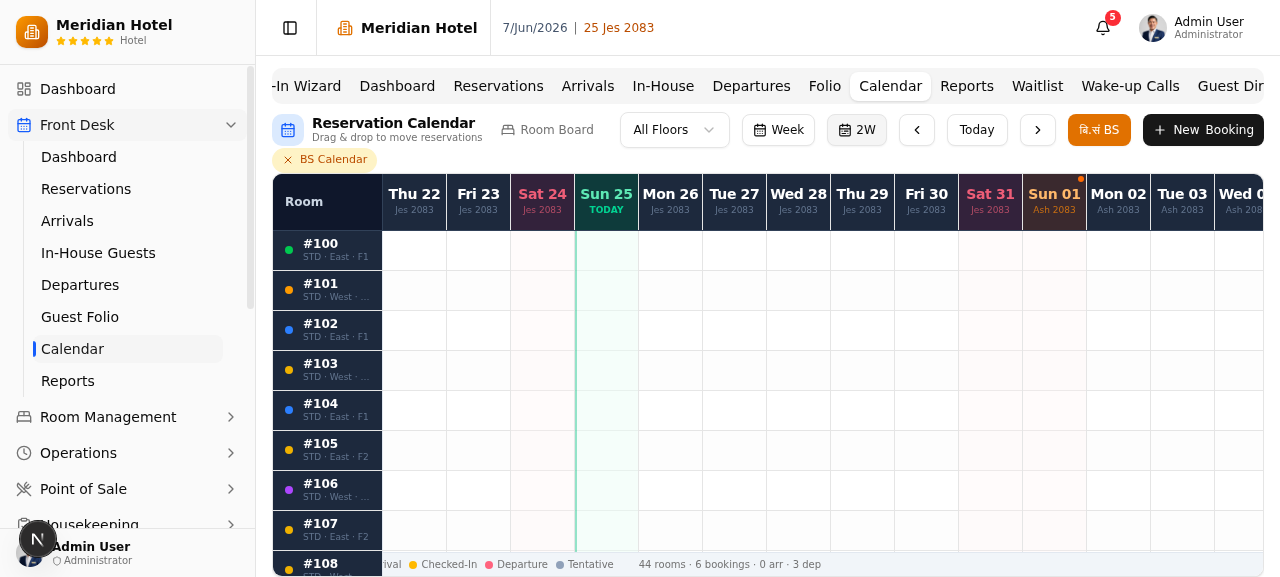
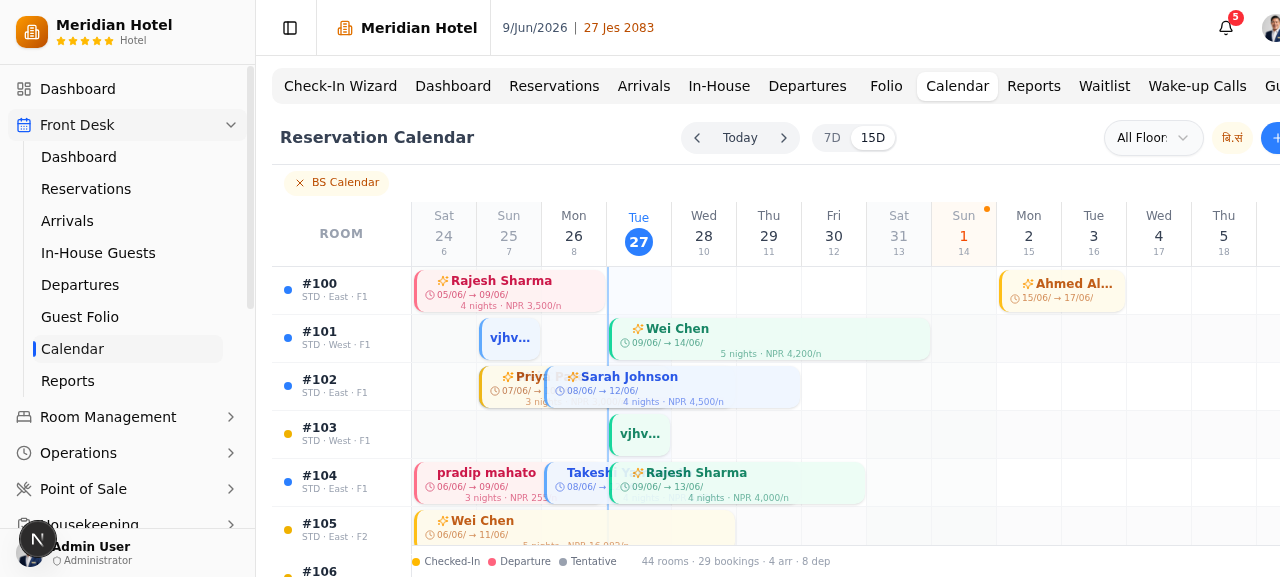
a394a363-4ba0-49c1-b8a2-46d32edbcb9f

diff --git a/src/components/modules/front-desk/CalendarView.tsx b/src/components/modules/front-desk/CalendarView.tsx
@@ -166,7 +166,7 @@ interface NewReservationForm {
 // ─── Constants ──────────────────────────────────────────────────────────
 
 // Default/fallback constants (used when container size is unknown)
-const DEFAULT_NUM_DAYS = 14
+const DEFAULT_NUM_DAYS = 15
 const DEFAULT_DAY_WIDTH = 100
 const ROW_HEIGHT = 48
 const HEADER_HEIGHT = 64
@@ -335,7 +335,7 @@ export function CalendarView() {
 
   // ─── Responsive container sizing ────────────────────────────────────
   const [containerWidth, setContainerWidth] = useState(0)
-  const [viewMode, setViewMode] = useState<'week' | 'twoWeeks'>('twoWeeks')
+  const [viewMode, setViewMode] = useState<'7days' | '15days'>('15days')
   const { preferences } = usePreferencesStore()
   const showBSDates = preferences.nepaliStandards?.dualCalendar === true
   const showHolidayAlerts = preferences.nepaliStandards?.holidayAlerts !== false
@@ -360,14 +360,19 @@ export function CalendarView() {
     return () => observer.disconnect()
   }, [])
 
-  // Re-measure when sidebar expands/collapses (add small delay for CSS transition)
+  // Re-measure when sidebar expands/collapses (add delay for CSS transition)
   useEffect(() => {
-    const timer = setTimeout(recalcWidth, 350)
-    return () => clearTimeout(timer)
+    // Measure at multiple intervals to catch sidebar CSS transition completion
+    const timers = [
+      setTimeout(recalcWidth, 100),
+      setTimeout(recalcWidth, 300),
+      setTimeout(recalcWidth, 500),
+    ]
+    return () => timers.forEach(clearTimeout)
   }, [sidebarState, sidebarOpen, isMobile, recalcWidth])
 
   // Dynamically compute grid dimensions based on container width
-  const numDays = viewMode === 'week' ? 7 : DEFAULT_NUM_DAYS
+  const numDays = viewMode === '7days' ? 7 : DEFAULT_NUM_DAYS
   const roomColWidth = containerWidth > 1024 ? 140 : containerWidth > 640 ? 110 : 90
   const dayWidth = containerWidth > 0
     ? Math.max(64, Math.floor((containerWidth - roomColWidth) / numDays))
@@ -390,7 +395,8 @@ export function CalendarView() {
   const endDate = useMemo(() => addDays(startDate, numDays - 1), [startDate, numDays])
 
   const startDateStr = useMemo(() => dateToKey(startDate), [startDate])
-  const endDateStr = useMemo(() => dateToKey(endDate), [endDate])
+  // Add a 7-day buffer beyond the visible range so extended stays are still fetched
+  const endDateStr = useMemo(() => dateToKey(addDays(endDate, 7)), [endDate])
 
   // ─── Navigation ──────────────────────────────────────────────────────
   const goToPrevWeek = useCallback(() => setStartDate((d) => addDays(d, -7)), [])
@@ -447,16 +453,20 @@ export function CalendarView() {
     },
   })
 
-  // ─── Fetch reservations overlapping the date range ───────────────────
+  // ─── Fetch reservations overlapping the full date range ──────────────
   const { data: reservationsRaw, isLoading: resLoading } = useQuery({
     queryKey: ['reservations', startDateStr, endDateStr],
     queryFn: async () => {
       const params = new URLSearchParams()
-      params.set('date', startDateStr)
+      // Use dateFrom/dateTo to fetch ALL reservations overlapping the visible range
+      // This ensures moved reservations remain visible after drag-drop
+      params.set('dateFrom', startDateStr)
+      params.set('dateTo', endDateStr)
       const res = await fetch(`/api/reservations?${params.toString()}`)
       if (!res.ok) throw new Error('Failed to fetch reservations')
       return res.json()
     },
+    staleTime: 15_000,
   })
 
   // ─── Fetch guests for new reservation dialog ──────────────────────────
@@ -1269,29 +1279,29 @@ export function CalendarView() {
               </button>
             </div>
 
-            {/* Segmented view toggle: 2W | 4W */}
+            {/* Segmented view toggle: 7 Days | 15 Days */}
             <div className="flex items-center bg-gray-100 dark:bg-gray-900 rounded-full p-0.5">
               <button
-                onClick={() => setViewMode('week')}
+                onClick={() => setViewMode('7days')}
                 className={cn(
                   'px-2.5 py-1 rounded-full text-xs font-medium transition-colors',
-                  viewMode === 'week'
+                  viewMode === '7days'
                     ? 'bg-white dark:bg-gray-800 text-gray-900 dark:text-gray-100 shadow-sm'
                     : 'text-gray-500 dark:text-gray-400 hover:text-gray-700 dark:hover:text-gray-200',
                 )}
               >
-                {isSmallScreen ? '1W' : '2W'}
+                7D
               </button>
               <button
-                onClick={() => setViewMode('twoWeeks')}
+                onClick={() => setViewMode('15days')}
                 className={cn(
                   'px-2.5 py-1 rounded-full text-xs font-medium transition-colors',
-                  viewMode === 'twoWeeks'
+                  viewMode === '15days'
                     ? 'bg-white dark:bg-gray-800 text-gray-900 dark:text-gray-100 shadow-sm'
                     : 'text-gray-500 dark:text-gray-400 hover:text-gray-700 dark:hover:text-gray-200',
                 )}
               >
-                {isSmallScreen ? '2W' : '4W'}
+                15D
               </button>
             </div>
           </div>

diff --git a/src/app/api/reservations/route.ts b/src/app/api/reservations/route.ts
@@ -51,6 +51,21 @@ export async function GET(request: Request) {
       ]
     }
 
+    // dateFrom/dateTo: fetch all reservations overlapping the range [dateFrom, dateTo]
+    // Used by calendar view to display all bookings within the visible date window
+    const dateFrom = searchParams.get('dateFrom')
+    const dateTo = searchParams.get('dateTo')
+    if (dateFrom && dateTo) {
+      const from = new Date(dateFrom)
+      from.setHours(0, 0, 0, 0)
+      const to = new Date(dateTo)
+      to.setHours(23, 59, 59, 999)
+      where.AND = [
+        { checkIn: { lt: to } },
+        { checkOut: { gt: from } },
+      ]
+    }
+
     if (checkInDate) {
       const d = new Date(checkInDate)
       d.setHours(0, 0, 0, 0)

diff --git a/worklog.md b/worklog.md
@@ -1617,3 +1617,30 @@ Stage Summary:
 - Solution: Eliminated all socket.io client usage (made useRealtime a no-op)
 - Files modified: src/hooks/use-realtime.ts, src/components/modules/dashboard/DashboardModule.tsx, src/components/modules/front-desk/FrontDeskModule.tsx, src/app/layout.tsx
 - Status: VERIFIED — zero reloads, zero errors, stable for 20+ seconds
+
+---
+Task ID: calendar-fixes
+Agent: Main Agent
+Task: Calendar 7/15 days toggle, responsive sidebar sizing, and drag-drop fix
+
+Work Log:
+- Read and analyzed CalendarView.tsx (2377 lines) to understand the full calendar implementation
+- Identified root cause of drag-drop "auto-removed" bug: CalendarView query only sent `date=startDateStr` (single date) to API, so after moving a reservation to a date outside that single-day window, it disappeared from the results
+- Changed `DEFAULT_NUM_DAYS` from 14 to 15
+- Updated `viewMode` type from `'week' | 'twoWeeks'` to `'7days' | '15days'`
+- Updated `numDays` calculation: `viewMode === '7days' ? 7 : DEFAULT_NUM_DAYS`
+- Updated view toggle buttons: replaced "2W/4W" labels with "7D/15D"
+- Fixed sidebar responsive sizing: replaced single 350ms timeout with three staggered measurements (100ms, 300ms, 500ms) to properly catch sidebar CSS transition completion
+- Updated CalendarView reservations query: now sends `dateFrom` and `dateTo` parameters instead of single `date`
+- Added 7-day buffer beyond visible end date: `endDateStr = addDays(endDate, 7)` for fetching extended stays
+- Added `staleTime: 15_000` to reservations query to reduce unnecessary refetches
+- Updated reservations API route: added `dateFrom`/`dateTo` parameter support that returns all reservations where `checkIn < toDate AND checkOut > fromDate`
+- Verified with agent-browser: 7D toggle switches to 7 date columns, 15D shows 15 columns
+- Verified sidebar collapse: calendar grid properly fills expanded space
+- Verified via VLM analysis: layout is clean, professional, no gaps or overflow
+
+Stage Summary:
+- Modified: src/components/modules/front-desk/CalendarView.tsx (7/15D toggle, sidebar fix, full date range query)
+- Modified: src/app/api/reservations/route.ts (added dateFrom/dateTo overlapping range filter)
+- Root cause of drag-drop auto-removal fixed: API now fetches full visible date range instead of single date
+- Calendar responsive to sidebar toggle with proper multi-point measurement
